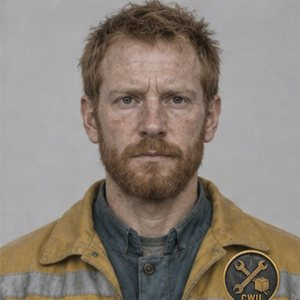
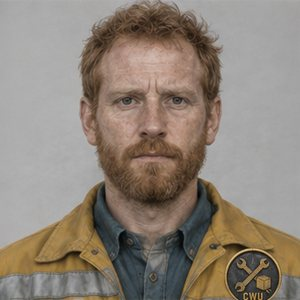
Replace CWU ID photos with edited sheet; add Brask and RDT worker art
Claude-Session: https://claude.ai/code/session_01FPxW8sjExYByq8Hjg1f5Jc

diff --git a/js/content/union.js b/js/content/union.js
@@ -399,6 +399,7 @@
       text: [
         'Mira is sitting on the floor with her back to the radiator when you come in. She has a split lip and she is trying to hide it with her hand.',
         '@say Mira|It\'s nothing. It\'s — it\'s not nothing. It\'s Brask. The foreman. He wasn\'t nicer for long.',
+        '@portrait assets/img/portraits/brask.jpg|Brask — CWU supervisor, dye floor · CID 30882',
         'It comes out slowly. Brask is the CWU supervisor on the dye floor — ochre jacket, flat cap, a gold chevron on his union badge — and he controls the shift rosters. He puts girls who refuse him on the dye vats, where the fumes take your lungs in a year. Mira refused him. He hit her. Tomorrow she starts on the vats.',
         '@say Mira|I\'m not asking you to do anything. I know what you\'d have to do. I just — I needed to tell someone who wasn\'t scared of him.',
       ],
@@ -411,6 +412,7 @@
 
     ev_mira_brask_ok: {
       text: [
+        '@portrait assets/img/portraits/brask.jpg|Brask, in his glass office above the vats',
         'You visit the dye floor the next morning during your patrol, mask on, Rook a step behind you. You find Brask in his glass office above the vats.',
         'You don\'t touch him. You don\'t have to. You stand very close, and you say his name — which units never do — and you tell him the exact address of his apartment, and the name of his wife, and the number of the ration window she uses.',
         'Then you tell him that a girl called Mira will be on the inspection line from now on, and that if her name ever appears on the vat roster you will come back.',
@@ -423,6 +425,7 @@
 
     ev_mira_brask_bad: {
       text: [
+        '@portrait assets/img/portraits/brask.jpg|Brask',
         'You find Brask in his glass office. You tell him to leave Mira alone. You say her name.',
         'Brask smiles. He is a fat man with small, wet eyes, and he has been bullied by units before.',
         '@say Brask|Mira. Your sister, is it? Funny. I file reports too, officer. On workers who get special treatment. On units who abuse their position for family. JURY loves those reports.',

diff --git a/js/content/duties.js b/js/content/duties.js
@@ -22,6 +22,7 @@
       text: [
         '@img assets/img/env/e10-ration.jpg|Plaza 5, ration distribution',
         'The ration dispensary is a steel wall in the side of the old cinema with six hatches in it. When a citizen puts a card into the slot, a hatch opens and a grey packet slides out: nutrient bar, a can of sector water, a sachet of something that is supposed to be coffee.',
+        '@img assets/img/portraits/rdt-worker.jpg|Behind hatch 4',
         'Behind the steel wall, CWU workers in ochre jackets feed the RDT hatches from pallets, never looking out through the slots.',
         'The queue goes around the plaza twice. Three hundred citizens, maybe more, silent except for coughing.',
         '@say Rook|Two rules for ration line. Keep it moving. Keep it quiet. A line that stops is a line that thinks.',

diff --git a/sw.js b/sw.js
@@ -1,6 +1,6 @@
 /* Service worker: makes the game installable and playable offline.
    Bump VERSION whenever files change so players get the update. */
-const VERSION = 'c9-v31';
+const VERSION = 'c9-v32';
 const SHELL = [
   './',
   './index.html',

diff --git a/docs/style-sheet.md b/docs/style-sheet.md
@@ -20,7 +20,8 @@ De genererade och godkända referensbilderna ligger i `assets/img/` och används
 | `spire-ref.jpg` + `ref/spire-elevation.jpg`, `ref/spire-context.jpg` | Citadellet (Rev 1), helt ark plus utklippt höjdritning och stadsvy |
 | `env/e01-city.jpg`, `env/e02-apartment.jpg`, `env/e03-bazaar.jpg`, `env/e04-nexus.jpg`, `env/e05-barracks.jpg`, `env/e01-city.jpg` … `env/e16-tinker.jpg` | Alla miljöer E01 till E16 (godkända) (godkända). E01 är stilreferens för alla miljöer |
 | `citizen-cwu.jpg` | CWU, Civil Workers' Union: worker och supervisor (godkänd) |
-| `docs/faces-cwu/c01–c12.jpg` | Tolv CWU-ID-foton (D4). Arbetarmärket är inklistrat på alla utom c06, som har supervisorns chevron |
+| `portraits/brask.jpg`, `portraits/rdt-worker.jpg` | Brask (CWU-supervisor) och RDT-arbetaren vid Plaza 5 |
+| `docs/faces-cwu/c01–c12.jpg` | Tolv CWU-ID-foton (D4). Redigerad med redigeringsprompten, och fyra märken lagades i efterhand. c06 har supervisorns chevron |
 | `docs/id-card.jpg`, `docs/permit.jpg`, `docs/faces/f01–f12.jpg` | Dokumentmallar (tomma) och tolv ID-foton för dokumentgranskningen (godkända) |
 | `ota-soldier.jpg` + `ref/ota-soldier-front.jpg`, `ref/ota-soldier-helmet.jpg` | OTA-soldat (O1, godkänd). Två cyan linser. Ryggvyn är spegelvänd, så bifoga framvyn |
 | `ota-elite.jpg` + `ref/ota-elite-front.jpg` | OTA-elit (O2, godkänd). Rött visirband. Ryggvyn är spegelvänd, så bifoga framvyn |
